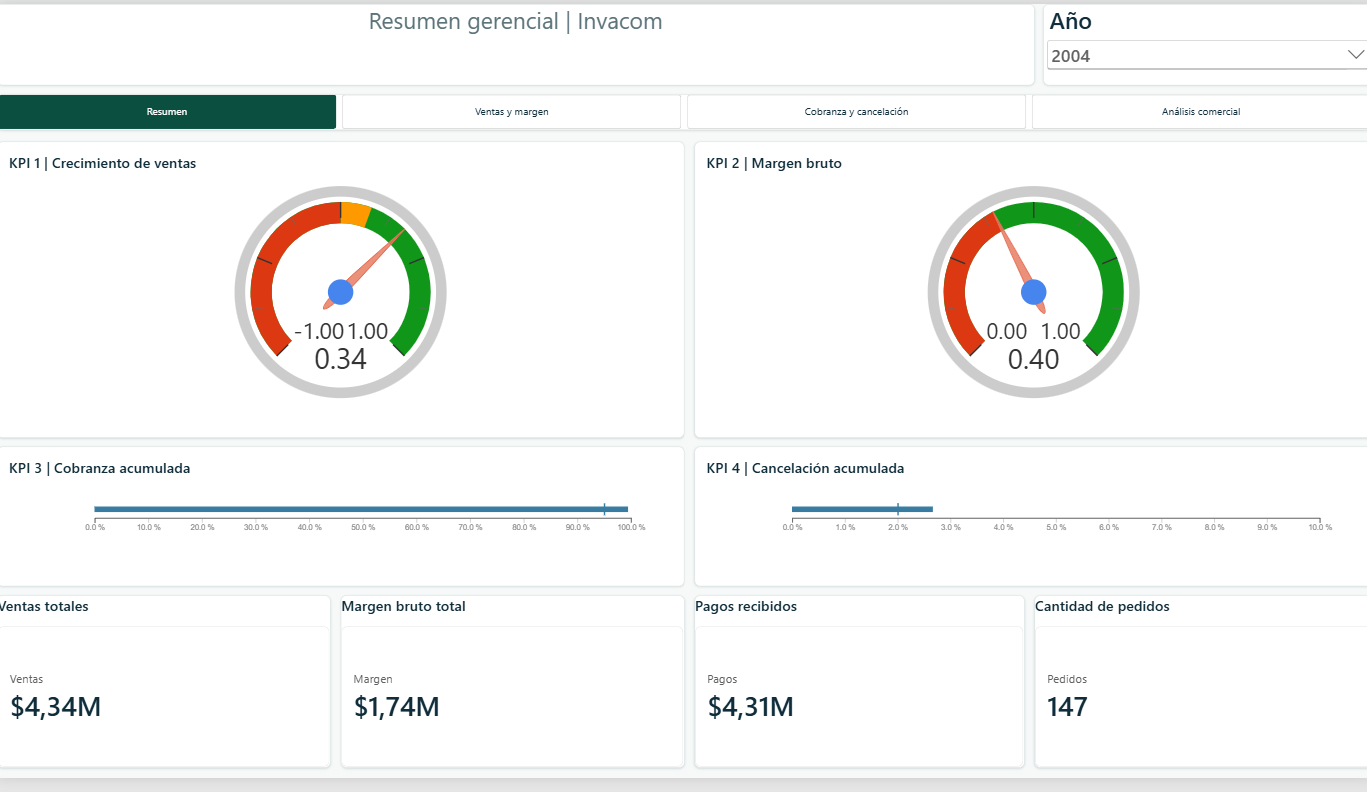
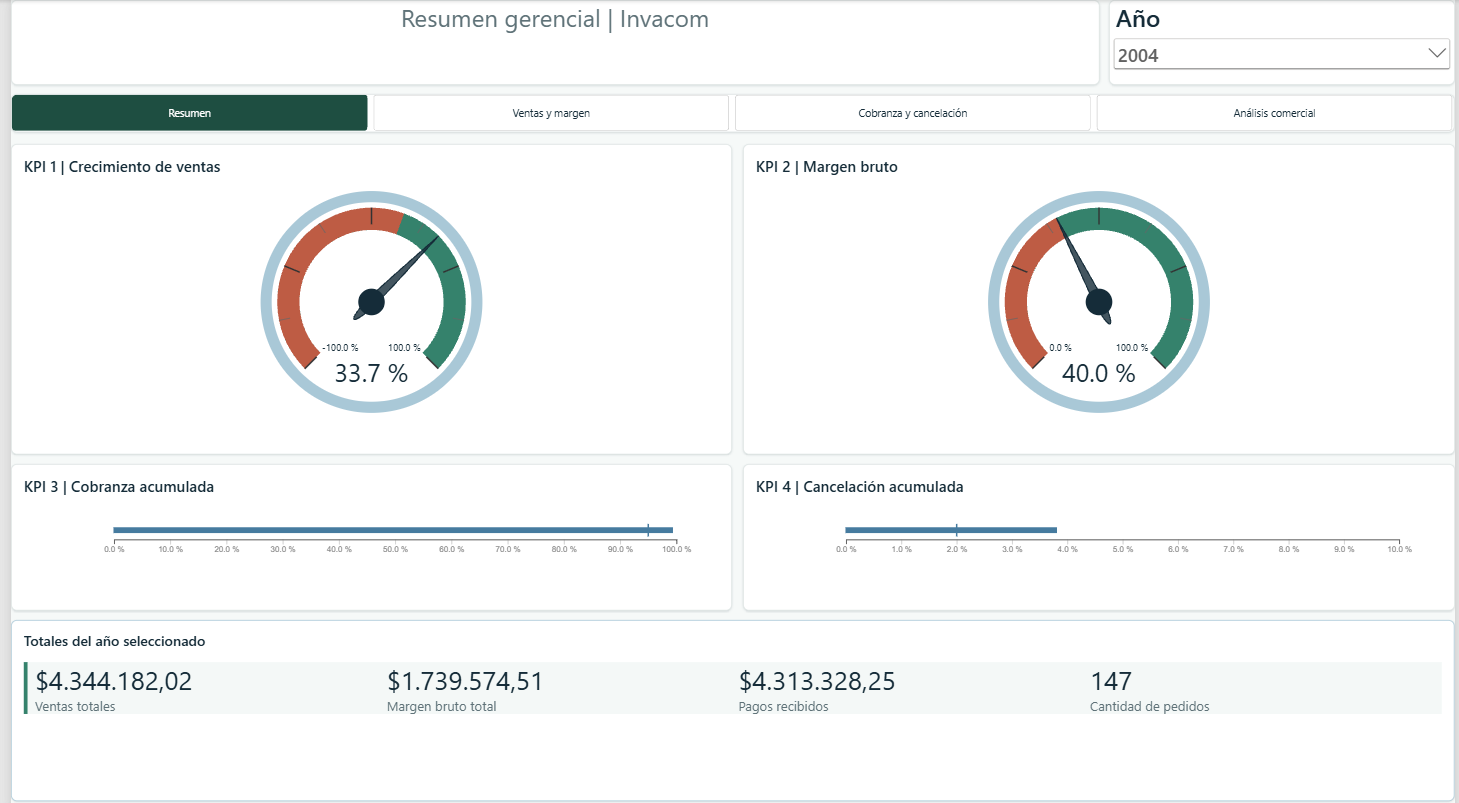
Proyecto2: capturas nuevas de las cuatro paginas y README ajustado

diff --git a/Proyecto2/README.md b/Proyecto2/README.md
@@ -180,7 +180,7 @@ RETURN IF(MIN(DIM_FECHA[FECHA_KEY]) > UltimaVenta, BLANK(), DIVIDE(COALESCE(Canc
 
 ### 4.5 Metas e interpretación
 
-En 2004 las ventas crecieron 33,7 % contra 2003, y la meta de 15 % se cumplió en 9 de los 12 meses. En diciembre de 2004, que es el mes que muestra el visual KPI de la página Ventas y margen, el crecimiento fue de 55,0 %. El margen bruto de 2004 fue de 40,04 %, por lo que cumple la meta de 40 %, y se cumplió en 7 de los 12 meses. La cobranza acumulada de 2004 llegó a 99,3 %, mayor que la meta de 95 %. La cancelación acumulada de 2004 fue de 3,8 %, mayor que el máximo de 2 %. El valor más alto se dio en junio, con 10,9 % acumulado desde enero.
+En 2004 las ventas crecieron 33,7 % contra 2003, y la meta de 15 % se cumplió en 9 de los 12 meses. En diciembre de 2004, que es el mes que muestra el visual KPI de la página Ventas y margen, el crecimiento fue de 55,0 %. El margen bruto de 2004 fue de 40,04 %, por lo que cumple la meta de 40 %, y se cumplió en 7 de los 12 meses. En diciembre el margen fue de 39,0 %, que es el valor que muestra el visual KPI 2, por lo que ese mes quedó 1,0 punto bajo la meta. La cobranza acumulada de 2004 llegó a 99,3 %, mayor que la meta de 95 %. La cancelación acumulada de 2004 fue de 3,8 %, mayor que el máximo de 2 %. El valor más alto se dio en junio, con 10,9 % acumulado desde enero.
 
 ## 5. Resultados de 2004
 
@@ -189,7 +189,7 @@ Los valores siguientes son los que muestra el tablero con el año 2004 seleccion
 | Indicador o total | Valor | Interpretación |
 | --- | --- | --- |
 | Crecimiento de ventas | 33,7 % en el año; 55,0 % en diciembre | Cumple la meta de 15 % |
-| Margen bruto | 40,0 % (40,04 %) | Cumple la meta de 40 % |
+| Margen bruto | 40,0 % (40,04 %) en el año; 39,0 % en diciembre | El año cumple la meta de 40 %; diciembre no |
 | Cobranza acumulada | 99,3 % | Cumple la meta de 95 % |
 | Cancelación acumulada | 3,8 % | No cumple el máximo de 2 % |
 | Ventas totales | $4.344.182,02 | Sin pedidos cancelados |
@@ -216,23 +216,25 @@ Las capturas siguientes se tomaron en Power BI Desktop con el año 2004 seleccio
 
 ![Página Resumen, año 2004](capturas/01_resumen.png)
 
-La página muestra los cuatro KPI y los totales del año. En el KPI 4 la barra pasa la marca de la meta de 2 %.
+La página muestra los cuatro KPI con el año completo y los totales del año. En los medidores la zona roja va hasta la meta (15 % en el KPI 1 y 40 % en el KPI 2) y la verde desde la meta hasta 100 %; las agujas marcan 33.7 % y 40.0 %. En el KPI 3 la barra llega a 99,3 % y pasa la marca de 95 %. En el KPI 4 la barra llega a 3,8 % y pasa la marca de 2 %, por lo que esa meta no se cumplió.
 
 ### 7.2 Ventas y margen
 
 ![Página Ventas y margen, año 2004](capturas/02_ventas_margen.png)
 
+Los visuales KPI muestran diciembre de 2004: crecimiento de 55,0 % (meta de 15 %) y margen de 39,0 % (meta de 40 %). En el gráfico de margen por línea de producto solo Motorcycles (42,2 %) y Vintage Cars (40,9 %) pasan la meta, y la tabla de la derecha marca con flechas verdes y rojas la variación de cada mes contra el anterior.
+
 ### 7.3 Cobranza y cancelación
 
 ![Página Cobranza y cancelación, año 2004](capturas/03_cobranza_cancelacion.png)
 
-La tabla muestra por mes los pedidos cancelados, el importe cancelado y la tasa acumulada. De enero a abril de 2004 no hubo cancelaciones, por lo que la tasa es 0 % en esos meses.
+La tabla muestra por mes los pedidos cancelados, el importe cancelado y la tasa acumulada. De enero a abril de 2004 no hubo cancelaciones, por lo que la tasa es 0 % en esos meses. En mayo se canceló 1 pedido por $41.445,21 y en junio 3 pedidos por $130.278,28; desde ahí la tasa acumulada baja hasta 3,8 % en diciembre. En el gráfico de barras, la cobranza solo superó la meta de 95 % en septiembre y diciembre.
 
 ### 7.4 Análisis comercial
 
 ![Página Análisis comercial, año 2004](capturas/04_analisis_comercial.png)
 
-La página tiene un mapa de ventas por país del cliente, un árbol de descomposición por territorio, vendedor y línea de producto, un gráfico de ventas por territorio y el Top 5 de vendedores. En 2004 el vendedor con más ventas fue Gerard Hernandez, con $487.510,31.
+La página tiene un mapa de ventas por país del cliente, un árbol de descomposición por territorio, vendedor y línea de producto, un gráfico de ventas por territorio y el Top 5 de vendedores. En 2004 el vendedor con más ventas fue Gerard Hernandez, con $487.510,31. El árbol usa el nombre completo del vendedor, por lo que Leslie Jennings y Leslie Thompson aparecen por separado.
 
 ## 8. Verificación de requisitos
 
